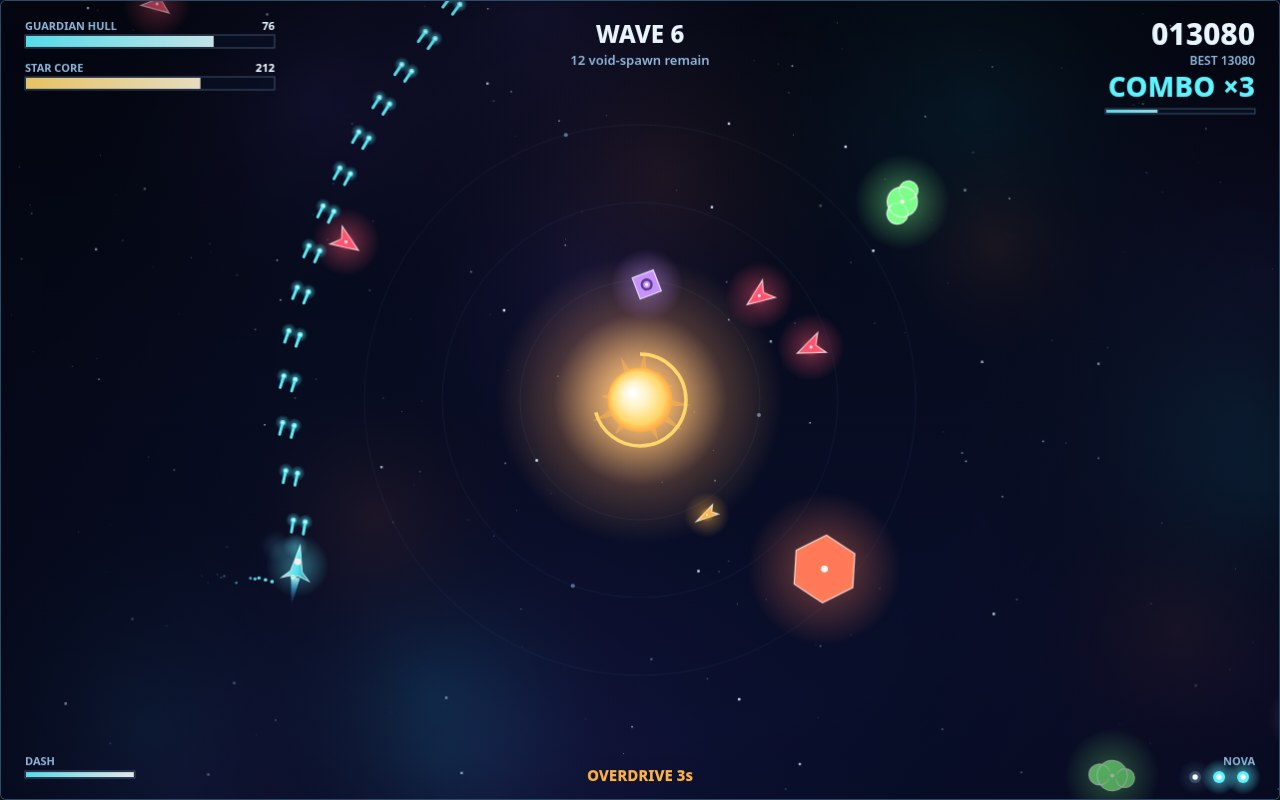
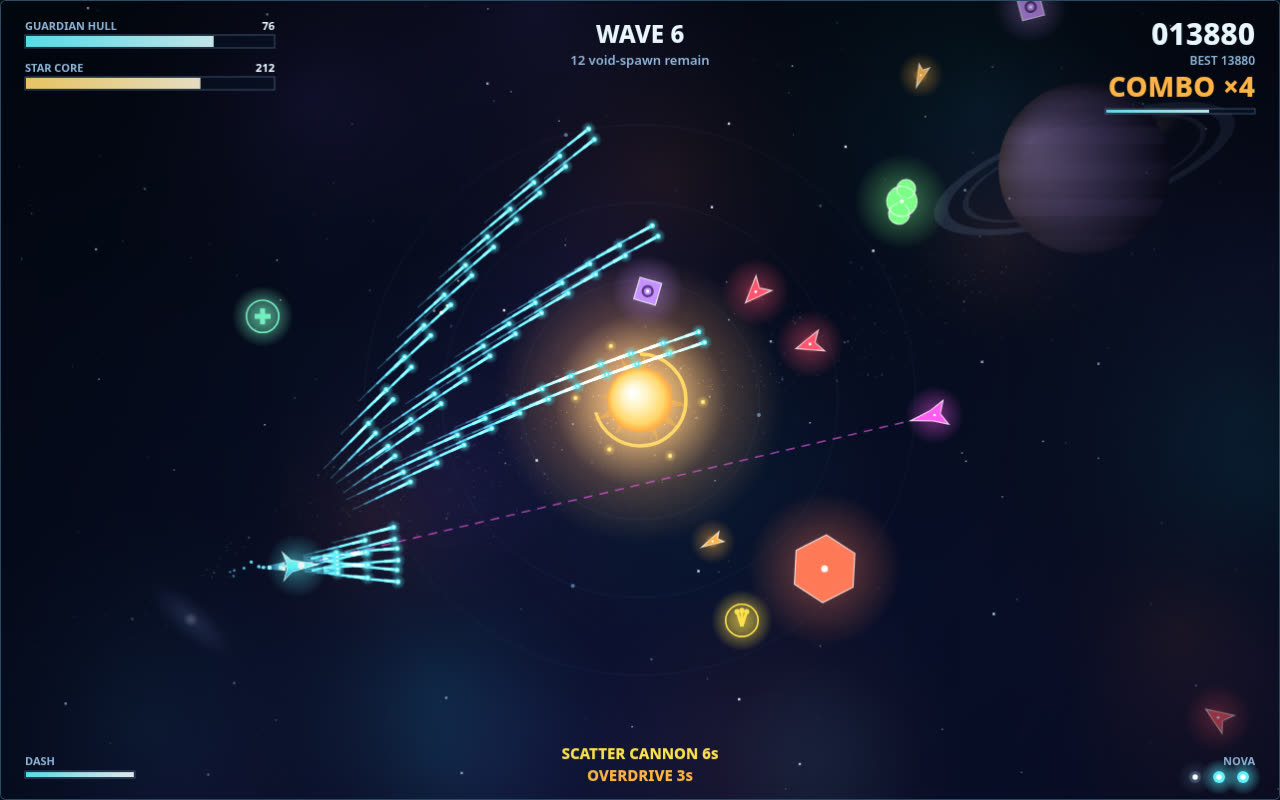
Regenerate screenshots from the v2 build
Real Chromium renders of the staged scenes: title over the ringed
giant, wave-6 battle with the scatter fan and a telegraphing lancer,
the Void Herald composed clear of its banner (staging fix: the wave
queue no longer fields a second Herald), victory with NEW BEST.

diff --git a/game/src/shots.js b/game/src/shots.js
@@ -121,6 +121,9 @@ function stageBoss(game) {
   game.director.wave = 10;
   game.director.buildWave(10);
   game.director.queue = game.director.queue.slice(0, 4);
+  // The queue's first slot is the Herald itself; the staged Herald
+  // below is the only one this scene fields.
+  game.director.queue = game.director.queue.filter((type) => type !== 'herald');
   game.enemies = game.enemies.filter(() => false);
   const herald = place(game, 'herald', 768, 205);
   herald.hp = 102;
@@ -151,6 +154,10 @@ function stageBoss(game) {
   game.core.hp = 164;
   game.scatterT = 5;
   placeTelegraphingLancer(game, 985, 585);
+  // The Herald orbited during the staged seconds; compose it clear
+  // of the banner for the frozen frame.
+  herald.x = 852;
+  herald.y = 322;
   herald.hp = 96; // the boss health arc reads mid-fight
   // Set the banner after the sim: its fade is driven by time left.
   game.showBanner('THE VOID HERALD', 'Break the Herald and the night ends', 2.3);
